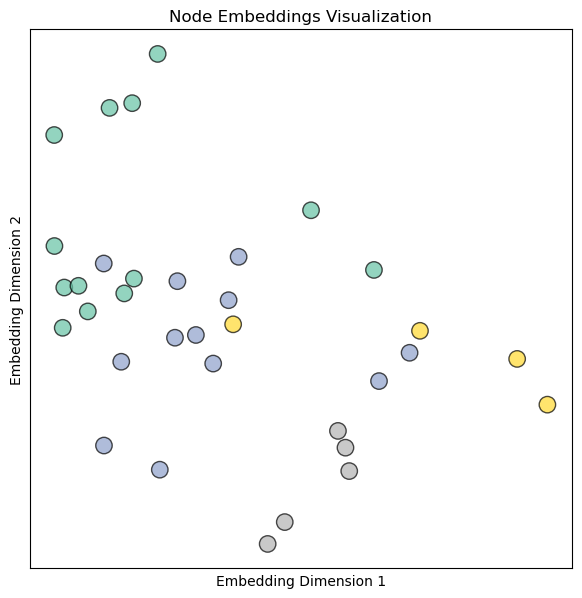
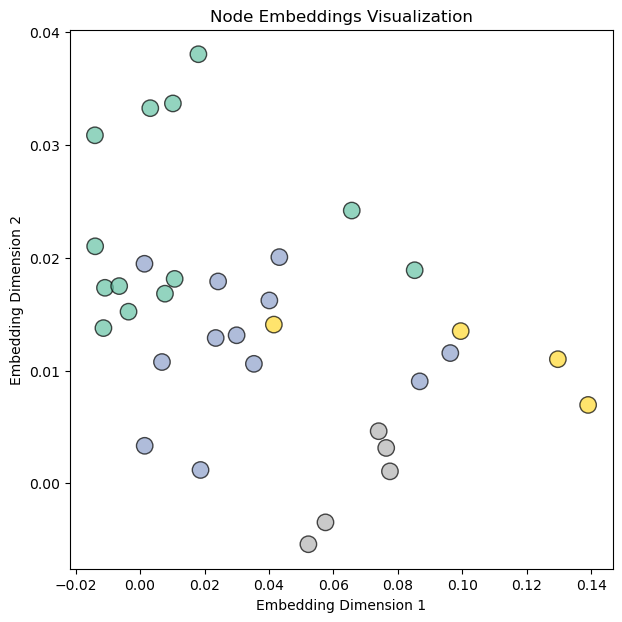
Rewire visualize_embedding to allow subplots
Add ability to pass a figure with a subplot index to plot the
embeddings. This is to allow visualization of embeddings as they evolve
through multiple epochs of training in the same figure / PNG file

diff --git a/GNN/introduction/main.py b/GNN/introduction/main.py
@@ -45,16 +45,39 @@ def visualize_graph(G, color, save_path=None):
     plt.show()
 
 # function to visualize embeddings
-def visualize_embedding(h, color, epoch=None, loss=None, save_path=None):
-    plt.figure(figsize=(7, 7))
-    plt.xticks([])
-    plt.yticks([])
+def visualize_embedding(fig, h, color, subidx='111', epoch=None, loss=None):
+    """
+    Visualizes the node embeddings in a 2D scatter plot.
+
+    @param fig: The figure object to plot on (required)
+    @oaram h: The node embeddings tensor (required)
+    @param color: The color array for the nodes (required)
+    @param subidx: Subplot index for multi-plotting (default '111')
+    @param epoch: The current training epoch (optional)
+    @param loss: The current loss value (optional)
+
+    @return: None
+
+    @raises ValueError: If subidx is not a valid subplot index.
+    """
+    # Check if the subidx is a valid subplot index
+    if not isinstance(subidx, str) or len(subidx) != 3 or not subidx.isdigit():
+        raise ValueError("subidx must be a string of three digits (e.g., '111')")
+
+    # Convert subidx to integer for subplot indexing
+    try:
+        subidx = int(subidx)
+    except ValueError:
+        raise ValueError("subidx must be convertible to an integer.")
+
+    # Add a subplot at subplot index subidx to the figure fig
+    ax = fig.add_subplot(subidx)
 
     # detach h to CPU and convert to numpy
     h = h.detach().cpu().numpy()
 
     # plot a scatter map of first two dimensions of h
-    plt.scatter(h[:, 0],
+    ax.scatter(h[:, 0],
                 h[:, 1],
                 c=color,
                 cmap="Set2",
@@ -63,20 +86,12 @@ def visualize_embedding(h, color, epoch=None, loss=None, save_path=None):
                 alpha=0.7)
 
     if epoch is not None and loss is not None:
-        plt.title(f"Epoch: {epoch}, Loss: {loss.item():.4f}", fontsize=16)
+        ax.set_title(f"Epoch: {epoch}, Loss: {loss.item():.4f}", fontsize=16)
     else:
-        plt.title("Node Embeddings Visualization")
+        ax.set_title("Node Embeddings Visualization")
 
-    plt.xlabel("Embedding Dimension 1")
-    plt.ylabel("Embedding Dimension 2")
-
-    # save image to file if save_path is valid image file path that can be created
-    if save_path and os.path.splitext(save_path)[1] in ['.png', '.jpg', '.jpeg']:
-        plt.savefig(save_path, format='png', bbox_inches='tight')
-        print(f"Embedding visualization saved to {save_path}")
-    else:
-        print("No valid save path provided, displaying embedding instead.")
-    plt.show()
+    ax.set_xlabel("Embedding Dimension 1")
+    ax.set_ylabel("Embedding Dimension 2")
 
 
 class GCN(torch.nn.Module):
@@ -215,7 +230,14 @@ def main():
         print(f"Initial node embeddings device: {h.device}")
         print(f"Initial node embeddings dtype: {h.dtype}")
         print(f"============================================")
-        visualize_embedding(h, color=data.y.cpu().numpy(), save_path="karate_club_initial_embeddings.png")
+
+        # create a figure for visualization
+        fig = plt.figure(figsize=(7, 7))
+        visualize_embedding(fig, h, color=data.y.cpu().numpy())
+        save_path = "karate_club_initial_embeddings.png"
+        plt.savefig(save_path, format='png', bbox_inches='tight')
+        print(f"Embedding visualization saved to {save_path}")
+        plt.show()
 
 
 if __name__ == "__main__":
